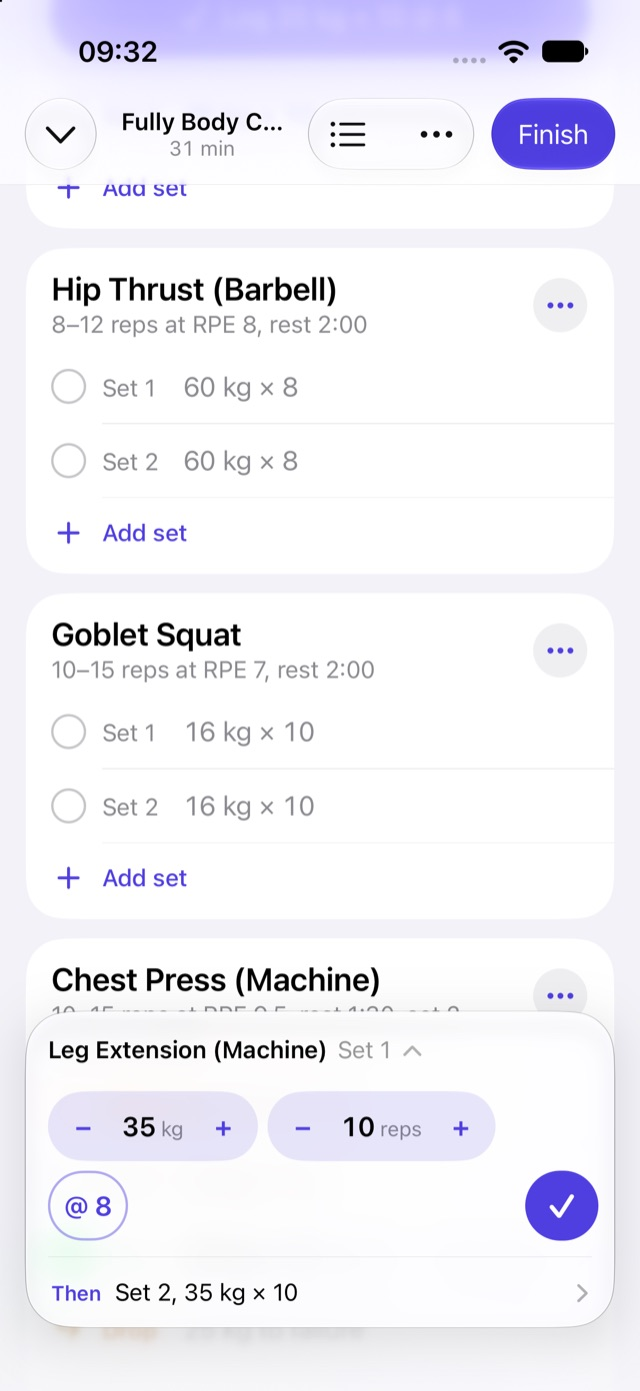
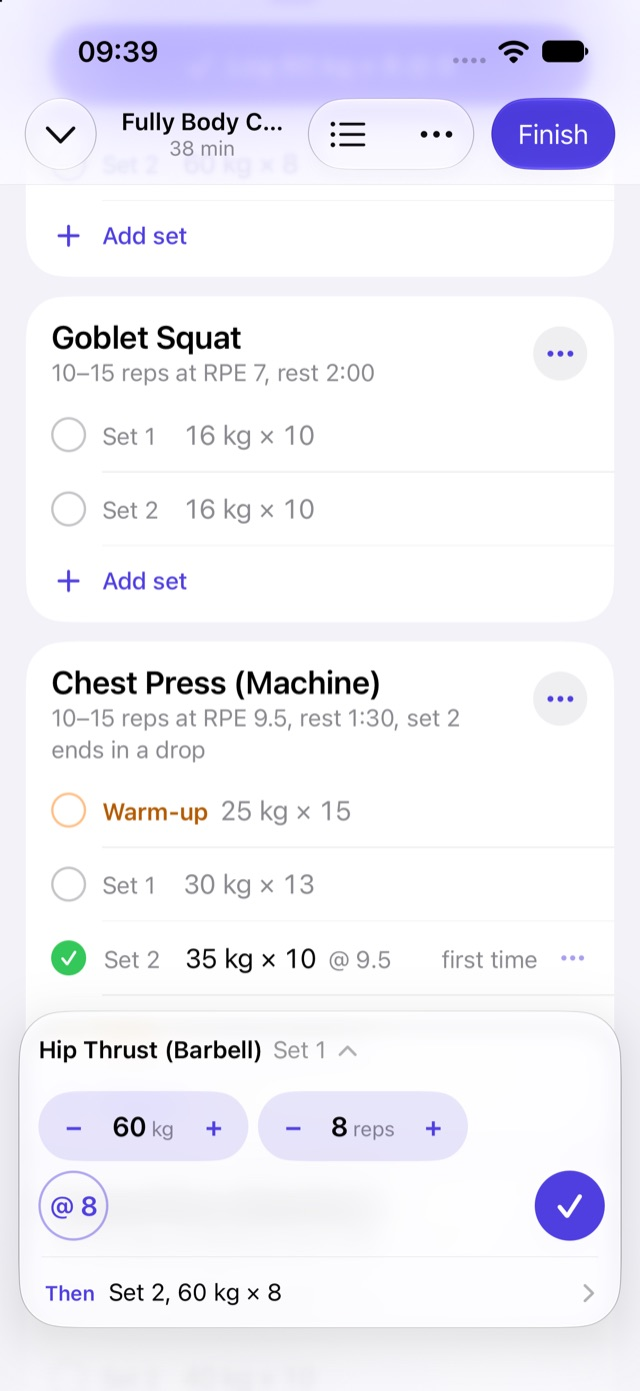
fix(apple): fit the docked set on one row on Plus and Pro Max phones
The owner asked for two rows only on small screens, but a load and reps with
their steppers, the RPE and Log needed about 395 pt and a 440 pt Pro Max's
island held 384. The single row is now packed: 4 pt gaps with Log
right-aligned without a spacer, Log exactly 44 pt, the RPE chip 6 pt either
side of its text, no padding beside the number between its 44 pt steppers,
the part 12 and 10 pt inside, and the island 12 pt from the screen's edges.
Measured on the iPhone 17: 364 pt for "60 kg", "8 reps", "@ 8" and Log,
against 394 pt on a 440 pt phone and 384 pt on a 430 pt one. A 402 pt phone
(356 pt) keeps two rows. Every target stays at least 44 pt.

diff --git a/apps/apple/SubstrateWorkouts/Sources/Views/Session/Rows/RowsIslandView.swift b/apps/apple/SubstrateWorkouts/Sources/Views/Session/Rows/RowsIslandView.swift
@@ -261,11 +261,15 @@ struct RowsNextPartView: View {
                 }
             } else {
                 ViewThatFits(in: .horizontal) {
-                    // Wide: the values, the RPE and Log on one row.
-                    HStack(spacing: 6) {
-                        valuesRow
-                        rpeButton
-                        Spacer(minLength: 0)
+                    // Wide: the values, the RPE and Log on one row, packed
+                    // (4 pt gaps, Log right-aligned without a spacer's two
+                    // gaps) so a load and reps fit Plus and Pro Max phones.
+                    HStack(spacing: 4) {
+                        HStack(spacing: 4) {
+                            valuesRow
+                            rpeButton
+                        }
+                        .frame(maxWidth: .infinity, alignment: .leading)
                         primary
                     }
                     // Narrow: the values, then the RPE with Log at the right edge.
@@ -287,7 +291,7 @@ struct RowsNextPartView: View {
                 }
             }
         }
-        .padding(.leading, 14)
+        .padding(.leading, 12)
         .padding(.trailing, 10)
         .padding(.top, 2)
         .padding(.bottom, 10)
@@ -415,7 +419,7 @@ struct RowsNextPartView: View {
                     .foregroundStyle(next.rpe == nil ? Color.secondary : tint)
                     .lineLimit(1)
                     .fixedSize()
-                    .padding(.horizontal, 10)
+                    .padding(.horizontal, 6)
                     .frame(minWidth: 44, minHeight: 44)
                     .background(tint.opacity(strip.isRated || open ? 0.13 : 0), in: .capsule)
                     .overlay {
@@ -489,7 +493,8 @@ struct RowsNextPartView: View {
                 .lineLimit(1)
                 .minimumScaleFactor(fitsWidth ? 0.5 : 1)
                 .fixedSize(horizontal: !fitsWidth, vertical: false)
-                .padding(.horizontal, steppers ? 2 : 10)
+                // Between steppers the 44 pt step targets give the number its air.
+                .padding(.horizontal, steppers ? 0 : 10)
                 .frame(minWidth: 44, minHeight: 44)
                 .contentShape(.rect)
             }
@@ -531,9 +536,10 @@ struct RowsNextPartView: View {
         } label: {
             Image(systemName: next.primary.action.symbol)
                 .font(.body.weight(.bold))
-                .frame(minWidth: 20, minHeight: 20)
+                .frame(width: 20, height: 20)
         }
-        .buttonStyle(RowsFilledButtonStyle(fill: RowsStyle.buttonFill(next.tint), minHeight: 44, horizontalPadding: 13))
+        // Exactly 44 pt wide: 20 for the glyph, 12 either side.
+        .buttonStyle(RowsFilledButtonStyle(fill: RowsStyle.buttonFill(next.tint), minHeight: 44, horizontalPadding: 12))
         .frame(minWidth: 44, minHeight: 44)
         .disabled(!next.primary.isEnabled)
         // "Log", then what it logs: `105 kg × 10 @ 8`.

diff --git a/apps/apple/SubstrateWorkouts/Sources/Views/Session/Rows/RowsSessionView.swift b/apps/apple/SubstrateWorkouts/Sources/Views/Session/Rows/RowsSessionView.swift
@@ -131,7 +131,7 @@ struct RowsSessionView: View {
             } else {
                 if let undo = screen.undo {
                     RowsUndoToast(undo: undo) { screen.undoLast(session: session) }
-                        .padding(.horizontal, 16)
+                        .padding(.horizontal, 12)
                 }
                 RowsIslandView(
                     island: layout.island,
@@ -142,7 +142,9 @@ struct RowsSessionView: View {
                     finish: finish,
                     addExercise: { cover.sheet = .addExercise(after: nil) }
                 )
-                .padding(.horizontal, 16)
+                // 12 pt from the screen's edges: on a Plus or Pro Max phone the
+                // docked set's values, RPE and Log then share one row.
+                .padding(.horizontal, 12)
             }
         }
         .padding(.bottom, 6)

diff --git a/apps/apple/SubstrateWorkouts/Sources/Views/Session/SessionCover.swift b/apps/apple/SubstrateWorkouts/Sources/Views/Session/SessionCover.swift
@@ -248,7 +248,7 @@ struct SessionCover: View {
                 finish: beginFinish,
                 addExercise: { cover.sheet = .addExercise(after: nil) }
             )
-            .padding(.horizontal, 16)
+            .padding(.horizontal, 12)
             .padding(.bottom, 6)
         } else if layout == .table, let bar = session.presentation?.restBar, bar.isCounting {
             restBar(bar) { path = NavigationPath() }

diff --git a/apps/apple/SubstrateWorkouts/DESIGN.md b/apps/apple/SubstrateWorkouts/DESIGN.md
@@ -2195,7 +2195,7 @@ nearby steps of the exercise's grid as six chips, 44 pt tall (a tap sets the val
 distances, delete, Cancel, and "Set 120 kg". The field shows what is typed in a box with a caret; a time is typed as
 digits ("107" is 1:07). On a fix it changes the draft.
 
-**The island** (`rowsLayout.island`) replaces the Table's rest bar: one rounded glass shape (corner radius 28), 16 pt
+**The island** (`rowsLayout.island`) replaces the Table's rest bar: one rounded glass shape (corner radius 28), 12 pt
 from the screen's edges, stacking up to three parts with hairlines between them, each drawn only when it applies
 (`RowsIsland.parts(editorInView:)`):
 
@@ -2210,10 +2210,13 @@ from the screen's edges, stacking up to three parts with hairlines between them,
    and then what it logs; play or stop for a timed set, whose clock leads the values): on one row where they fit;
    where they do not, the values take the first row and the RPE the second, with Log at its right edge; with larger
    text each value takes a line of its own, still with its steppers, and on the narrowest line the number shrinks
-   between them. The steppers never give way to the RPE (owner, 2026-11-02). Measured at the default size, two
-   values with their steppers, the RPE and Log need about 385 pt and the island holds 346 pt on a 402 pt phone and
-   384 pt on a 440 pt one, so a load-and-reps set takes two rows on every phone today, and a set with one value
-   (reps alone, a hold) takes one. A tap on the RPE opens the panel's stops in the island, under the values: a stop
+   between them. The steppers never give way to the RPE (owner, 2026-11-02). The single row is packed: 4 pt gaps,
+   Log right-aligned without a spacer, Log exactly 44 pt, the RPE chip 6 pt either side of its text (44 pt at least),
+   no padding beside the number between its steppers, and the part 12 and 10 pt inside an island 12 pt from the
+   screen's edges. Measured at the default size, "60 kg", "8 reps", "@ 8" and Log need 364 pt; the island holds
+   394 pt on a 440 pt phone and 384 pt on a 430 pt one, so a load-and-reps set takes one row on Plus and Pro Max
+   phones (30 and 20 pt to spare, room for a three-digit load or a half-point RPE), and two on a 402 pt phone (356
+   pt) and narrower. A set with one value (reps alone, a hold) takes one row everywhere. A tap on the RPE opens the panel's stops in the island, under the values: a stop
    rates and closes them, `½` keeps them open. The RPE shows as the panel shows it, so a warm-up's or a timed set's
    stays out until opened there. A group's warm-up reads "Warm-up", never a round. Spacing is 6 pt. At the
    accessibility sizes it docks only the name row and Log, or the clock and stop: a tap on the name brings the full

diff --git a/apps/apple/SubstrateWorkouts/README.md b/apps/apple/SubstrateWorkouts/README.md
@@ -220,9 +220,10 @@ measured alone, so a visible Stop above Cancel docks nothing).
 | ![Done set menu](docs/screenshots/session-after-done-menu.jpg) | ![Island RPE](docs/screenshots/session-after-island-rpe.jpg) | ![Fix](docs/screenshots/session-after-fix.jpg) | ![Then](docs/screenshots/session-after-then.jpg) |
 
 The docked set keeps its − and + beside the RPE (owner, 2026-11-02): the
-values, the RPE and Log share one row where they fit (one value, or a timed
-set, on the iPhone 17); a load and reps take two rows, the RPE and Log under
-the values; larger text puts each value on a line of its own, steppers kept.
+values, the RPE and Log share one row where they fit: a load and reps on Plus
+and Pro Max phones, one value or a timed set on every phone. On a 402 pt phone
+and narrower a load and reps take two rows, the RPE and Log under the values;
+larger text puts each value on a line of its own, steppers kept.
 
 | Two values: two rows | One value: one row | Timed set | Larger text |
 | --- | --- | --- | --- |
